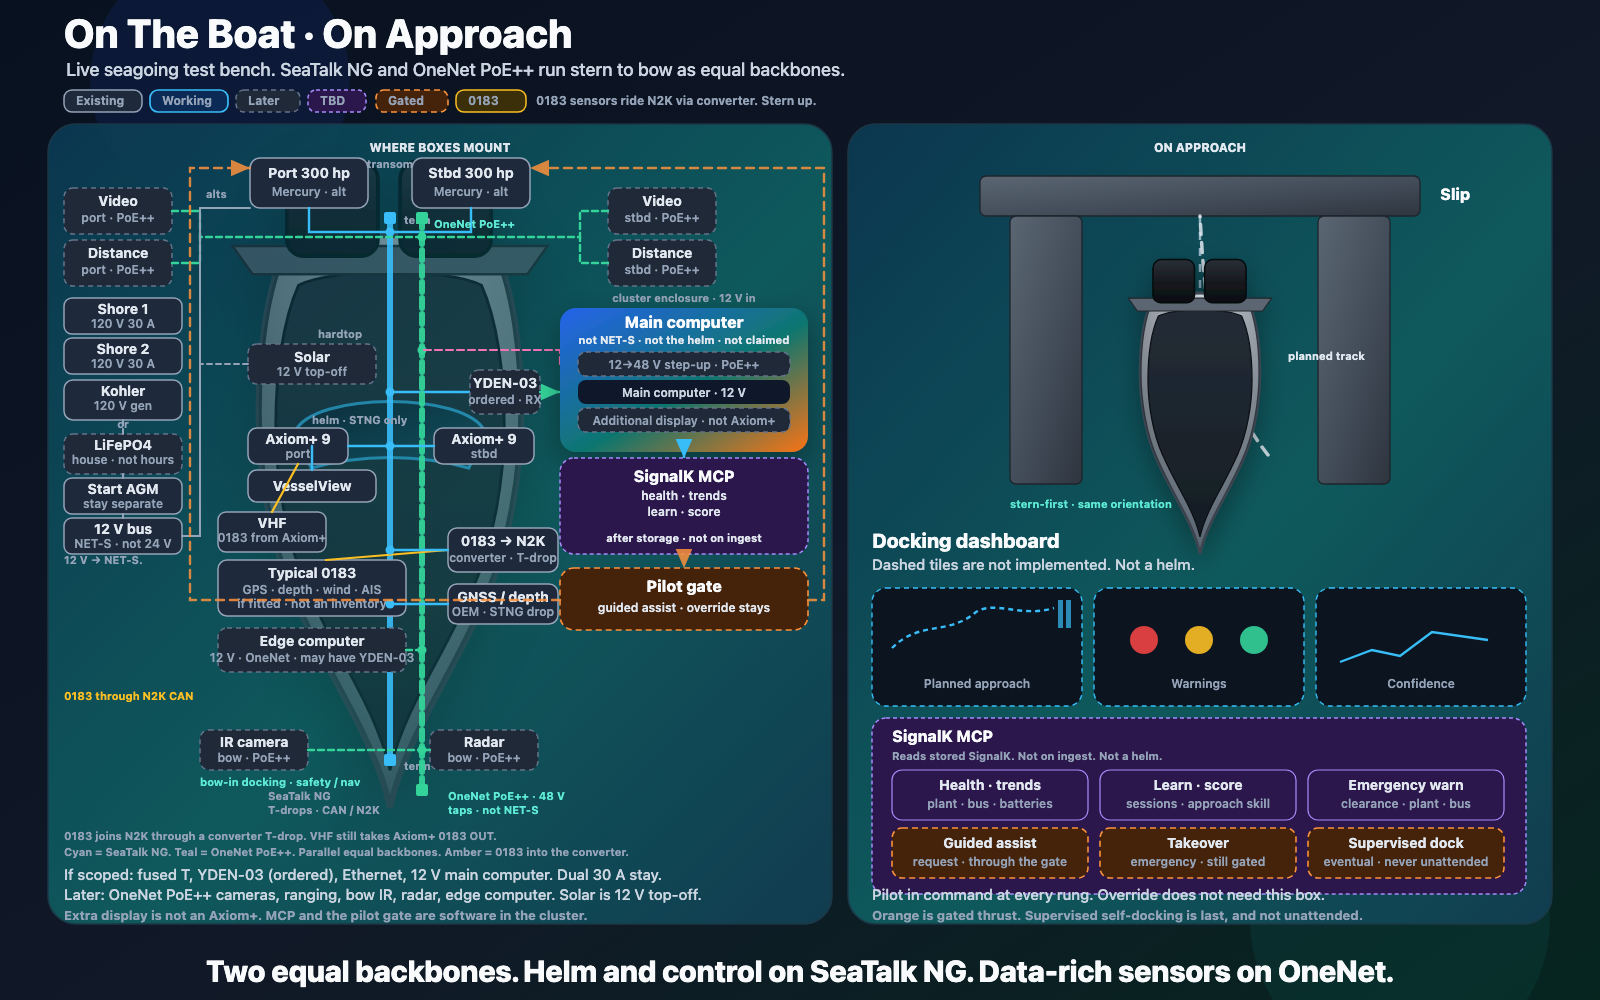
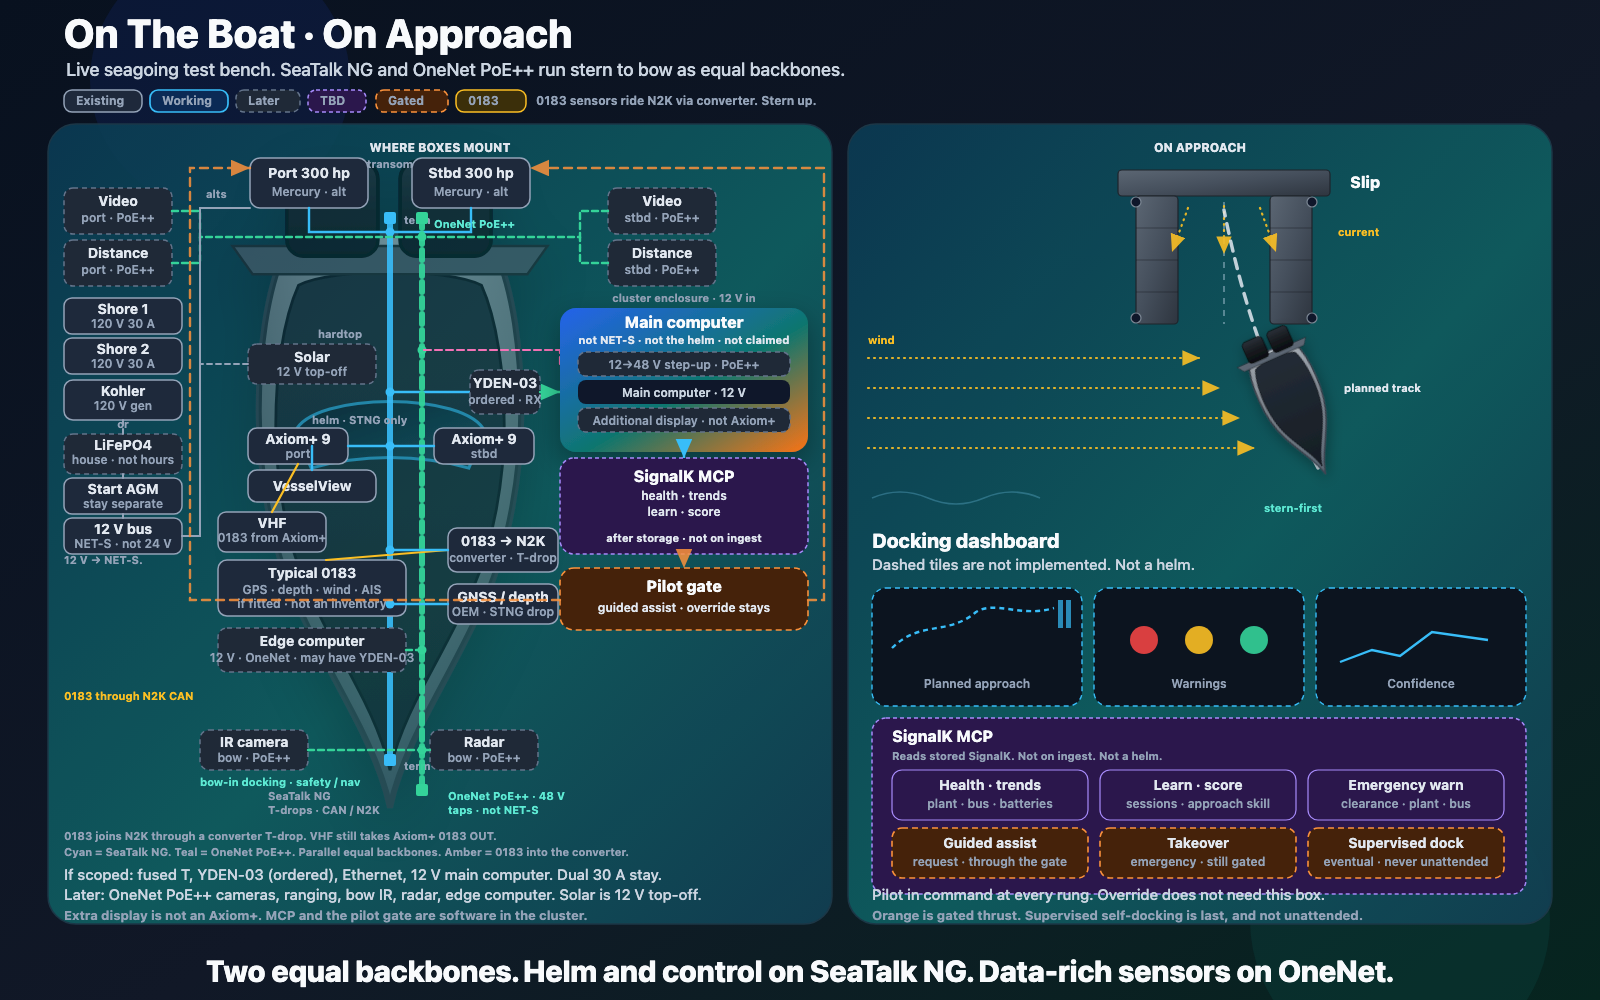
draw On Approach as a smaller slip with the boat still outside
Match the docking graphic's approach scene: shrink dock and hull,
put the boat on a diagonal stern-first track, and show wind and
current on the hull.

Changed region(s): [[0.5938, 0.155, 0.9375, 0.527]]

diff --git a/docs/marine-network-architecture.md b/docs/marine-network-architecture.md
@@ -91,10 +91,11 @@ drawing is a throttle wire.
 
 **On approach**
 
-The right pane is what a skipper would actually watch: a planned
-stern-first track into the slip, red / yellow / green clearance
-warnings, and a confidence trace that the plan still matches sensors.
-Dashed tiles are not implemented.
+The right pane is what a skipper would actually watch: a smaller slip,
+the boat still outside it, a diagonal stern-first track under wind and
+current, red / yellow / green clearance warnings, and a confidence
+trace that the plan still matches sensors. Dashed tiles are not
+implemented.
 
 A SignalK MCP (Model Context Protocol) adapter, when it exists, sits
 **after storage**, not on ingest. It lets an agent read stored SignalK
